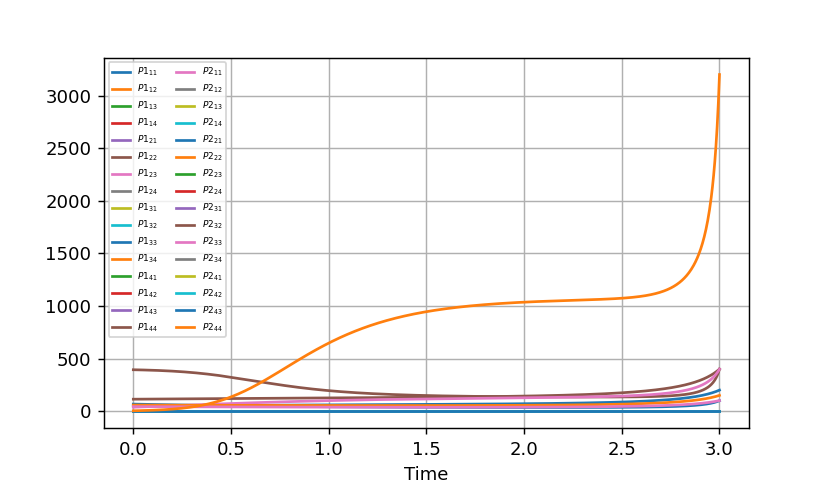
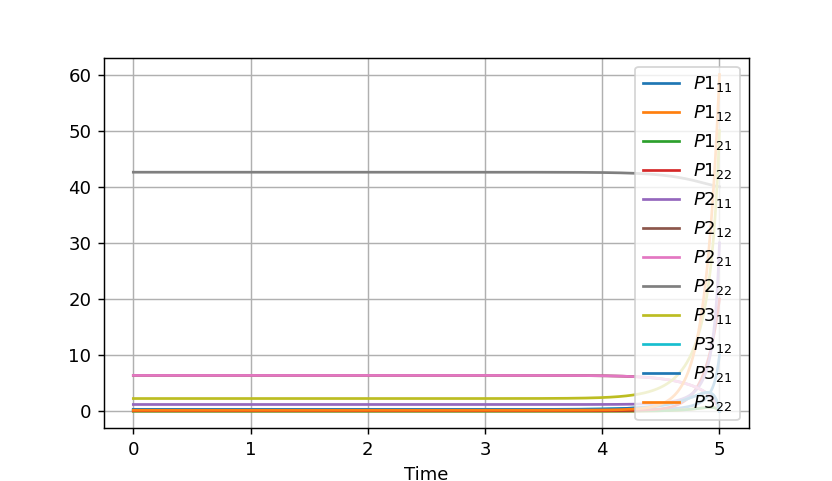
Refactored tutorial

diff --git a/PyDiffGame.py b/PyDiffGame.py
@@ -46,20 +46,21 @@ def check_input(m, A, B, Q, R, X0, T_f, P_f, data_points):
     N = len(B)
     P_size = M ** 2
 
-    if not all([isinstance(m_i, int) and m_i > 0 for m_i in m]):
-        raise ValueError('The state variables dimensions must all be positive integers')
-    if not A.shape == (M, M):
-        raise ValueError('The system matrix A must be of size MxM')
-    if not all([B_i.shape[0] == M for B_i in B]):
-        raise ValueError('The matrices B_i must all have M rows')
-    if not all([B_i.shape[1] == R_i.shape[0] == R_i.shape[1] for B_i, R_i in zip(B, R)]):
-        raise ValueError('The matrices B_i, R_i must have corresponding dimensions')
-    if not all([np.all(eigvals(Q_i) >= 0) for Q_i in Q]):
-        raise ValueError('The weight matrices Q_i must all be positive semi-definite')
-    if not all([np.all(eigvals(R_i) > 0) for R_i in R]):
-        raise ValueError('The weight matrices R_i must all be positive definite')
-    if not X0.shape == (M, ):
-        raise ValueError('The initial state vector should be of dimension M')
+    if not (isinstance(m, list) and all([isinstance(m_i, int) and m_i > 0 for m_i in m])):
+        raise ValueError('m must be a list of positive integers')
+    if not (isinstance(A, np.ndarray) and A.shape == (M, M)):
+        raise ValueError('A must be a square 2-d numpy array with shape MxM')
+    if not (isinstance(B, list) and all([isinstance(B_i, np.ndarray) and B_i.shape[0] == M for B_i in B])):
+        raise ValueError('B must be a list of 2-d numpy arrays with M rows')
+    if not (isinstance(B, list) and all([isinstance(R_i, np.ndarray) and B_i.shape[1] == R_i.shape[0] == R_i.shape[1]
+            and np.all(eigvals(R_i) > 0) for B_i, R_i in zip(B, R)])):
+        raise ValueError('R must be a list of square 2-d positive definite numpy arrays with shape '
+                         'corresponding to the second dimensions of the arrays in B')
+    if not (isinstance(Q, list) and all([isinstance(Q_i, np.ndarray) and Q_i.shape == (M, M)
+                                         and np.all(eigvals(Q_i) >= 0) for Q_i in Q])):
+        raise ValueError('Q must be a list of square 2-d positive semi-definite numpy arrays with shape MxM')
+    if not (isinstance(X0, np.ndarray) and X0.shape == (M, )):
+        raise ValueError('X0 must be a 1-d numpy array with length M')
 
     valid_T_f = isinstance(T_f, (float, int)) and T_f < 100
     valid_P_f = P_f is not None
@@ -106,12 +107,13 @@ def solve_N_coupled_riccati(_, P, M, N, A, B, Q, R, cl):
     return np.ravel(dPdt)
 
 
-def plot(m, s, mat, is_P):
+def plot(m, N, s, mat, is_P):
     M = sum(m)
-    V = range(1, len(m) + 1)
-    U = range(1, int(M) + 1)
+    V = range(1, N + 1)
+    U = range(1, M + 1)
 
-    legend = tuple(['${' + ('P' if is_P else 'X') + str(i) + '}_{' + str(j) + str(k) + '}$' for i in V for j in U for k in U])
+    legend = tuple(['${' + ('P' if is_P else 'X') + str(i) + '}_{' + str(j) + str(k) + '}$'
+                    for i in V for j in U for k in U])
 
     plt.figure(dpi=130)
     plt.plot(s, mat)
@@ -157,33 +159,43 @@ def solve_diff_game(m, A, B, Q, R, cl, X0, T_f=5, P_f=None, data_points=10000):
     else:
         P = odeint(func=solve_N_coupled_riccati, y0=P_f, t=t, args=(M, N, A, B, Q, R, cl), tfirst=True)
 
-    plot(m, t, P, True)
+    plot(m, N, t, P, True)
 
     forward_t = t[::-1]
     X = simulate_state_space(P, M, A, R, B, N, X0, forward_t)
-    plot(m, forward_t, X, False)
+    plot(m, N, forward_t, X, False)
 
 
 if __name__ == '__main__':
     # start = time.time()
-    m = [2, 2]
+    m = [2]
 
-    A = np.diag([2, 1, 1, 4])
-    B = [np.diag([2, 1, 1, 2]),
-         np.diag([1, 2, 2, 1])]
-    Q = [np.diag([2, 1, 2, 2]),
-         np.diag([1, 2, 3, 4])]
-    R = [np.diag([100, 200, 100, 200]),
-         np.diag([100, 300, 200, 400])]
-    coupled_R = [np.diag([100, 200, 100, 200]),
-                 np.diag([100, 300, 200, 400])]
+    A = np.array([[-2, 1],
+                  [1, 4]])
+    B = [np.array([[1, 0],
+                  [0, 1]]),
+         np.array([[0],
+                  [1]]),
+         np.array([[1],
+                  [0]])]
+    Q = [np.array([[1, 0],
+                  [0, 1]]),
+         np.array([[1, 0],
+                   [0, 10]]),
+         np.array([[10, 0],
+                   [0, 1]])
+         ]
+    R = [np.array([[100, 0],
+                  [0, 200]]),
+         np.array([[5]]),
+         np.array([[7]])]
 
     cl = True
-    T_f = 3
-    P_f = get_care_P_f(A, B, Q, R)
+    T_f = 5
+    P_f = np.array([10, 0, 0, 20, 30, 0, 0, 40, 50, 0, 0, 60])
     data_points = 1000
 
-    X0 = np.array([10, 20, 30, 100])
+    X0 = np.array([10, 20])
 
     solve_diff_game(m, A, B, Q, R, cl, X0, T_f, P_f, data_points)
     # end = time.time()

diff --git a/README.md b/README.md
@@ -19,21 +19,21 @@ The input parameters for `solve_diff_game` are:
 
 * `m` : list of positive ints, of len(<img src="https://render.githubusercontent.com/render/math?math=n">)
 >Lengths of controlled objects' state vectors
-* `A` : numpy array, of shape(<img src="https://render.githubusercontent.com/render/math?math=M,M">)
+* `A` : numpy 2-d array, of shape(<img src="https://render.githubusercontent.com/render/math?math=M,M">)
 >The system dynamics matrix
-* `B` : list of numpy arrays, of len(<img src="https://render.githubusercontent.com/render/math?math=N">), each matrix <img src="https://render.githubusercontent.com/render/math?math=B_j"> of shape(<img src="https://render.githubusercontent.com/render/math?math=M,k_j">)
+* `B` : list of <img src="https://render.githubusercontent.com/render/math?math=j"> numpy 2-d arrays, of len(<img src="https://render.githubusercontent.com/render/math?math=N">), each matrix <img src="https://render.githubusercontent.com/render/math?math=B_j"> of shape(<img src="https://render.githubusercontent.com/render/math?math=M,k_j">)
 >System input matrices for each control agenda
-* `Q` : list of numpy arrays, of len(<img src="https://render.githubusercontent.com/render/math?math=N">), each matrix <img src="https://render.githubusercontent.com/render/math?math=Q_j"> of shape(<img src="https://render.githubusercontent.com/render/math?math=M,M">)
+* `Q` : list of <img src="https://render.githubusercontent.com/render/math?math=j"> numpy 2-d arrays, of len(<img src="https://render.githubusercontent.com/render/math?math=N">), each matrix <img src="https://render.githubusercontent.com/render/math?math=Q_j"> of shape(<img src="https://render.githubusercontent.com/render/math?math=M,M">)
 >Cost function state weights for each control agenda
-* `R` : list of lists of numpy arrays, of len(<img src="https://render.githubusercontent.com/render/math?math=N">), each list of len(<img src="https://render.githubusercontent.com/render/math?math=N">), each matrix <img src="https://render.githubusercontent.com/render/math?math=R_{ij}"> of shape(<img src="https://render.githubusercontent.com/render/math?math=k_j,k_j">)
+* `R` : list of <img src="https://render.githubusercontent.com/render/math?math=j"> numpy 2-d arrays, of len(<img src="https://render.githubusercontent.com/render/math?math=N">), each matrix <img src="https://render.githubusercontent.com/render/math?math=R_{j}"> of shape(<img src="https://render.githubusercontent.com/render/math?math=k_j,k_j">)
 >Cost function input weights for each control agenda
 * `cl` : boolean
->Indicates whether to render the closed (True) or open (False) loop behaviour 
+>Indicates whether to render the closed (True) or open (False) loop behaviour
 * `T_f` : positive float <= 100, optional, default = 5
 >System dynamics horizon. Should be given in the case of finite horizon
-* `X_0` : numpy array, of shape(<img src="https://render.githubusercontent.com/render/math?math=M">)
+* `X_0` : numpy 2-d array, of shape(<img src="https://render.githubusercontent.com/render/math?math=M">)
 >Initial state vector
-* `P_f` : numpy array, of shape(<img src="https://render.githubusercontent.com/render/math?math=N \cdot M^2">), optional, default = solution of scipy's `solve_continuous_are`
+* `P_f` : numpy 2-d array, of shape(<img src="https://render.githubusercontent.com/render/math?math=N \cdot M^2">), optional, default = solution of scipy's `solve_continuous_are`
 >Final condition for the Riccati equation matrix. Should be given in the case of finite horizon
 * `data_points` : positive int <= 10000, optional, default = 10000
 >Number of data points to evaluate the Riccati equation matrix. Should be given in the case of finite horizon
@@ -43,22 +43,34 @@ The input parameters for `solve_diff_game` are:
 Let us consider the following input parameters:
 
 ```
-m = [2, 2]
+m = [2]
 
-A = np.diag([2, 1, 1, 4])
-B = [np.diag([2, 1, 1, 2]),
-     np.diag([1, 2, 2, 1])]
-Q = [np.diag([2, 1, 2, 2]),
-     np.diag([1, 2, 3, 4])]
-R = [np.diag([100, 200, 100, 200]),
-     np.diag([100, 300, 200, 400])]
+A = np.array([[-2, 1],
+              [1, 4]])
+B = [np.array([[1, 0],
+              [0, 1]]),
+     np.array([[0],
+              [1]]),
+     np.array([[1],
+              [0]])]
+Q = [np.array([[1, 0],
+              [0, 1]]),
+     np.array([[1, 0],
+               [0, 10]]),
+     np.array([[10, 0],
+               [0, 1]])
+     ]
+R = [np.array([[100, 0],
+              [0, 200]]),
+     np.array([[5]]),
+     np.array([[7]])]
 
 cl = True
-T_f = 3
-P_f = get_care_P_f(A, B, Q, R)
+T_f = 5
+P_f = np.array([10, 0, 0, 20, 30, 0, 0, 40, 50, 0, 0, 60])
 data_points = 1000
 
-X0 = np.array([10, 20, 30, 100])
+X0 = np.array([10, 20])
 ```
 
 Invoking the function `solve_diff_game` as such:
@@ -75,7 +87,4 @@ and the following state space simulation:
 <img src="https://github.com/krichelj/PyDiffGame/blob/master/images/tut1_state.png" width="640" alt="EKF pic">
 
 
-# References
-- **A Differential Game Approach to Formation Control**, Dongbing Gu, IEEE Transactions on Control Systems Technology, 2008
-- **Optimal Control - Third Edition**, Frank L. Lewis, Draguna L. Vrabie, Vassilis L. Syrmos, 2012 by John Wiley & Sons, 2012
-- **A Survey of Nonsymmetric Riccati Equations**, Gerhard Freiling, Linear Algebra and its Applications, 2002
+

diff --git a/Scenarios.md b/Scenarios.md
@@ -19,12 +19,3 @@ In such cases the following Riccati equation arise:
 
 <img src="https://render.githubusercontent.com/render/math?math=\frac{dP_i}{dt} = - A^T P_i - P_i A - Q_i %2B P_i \big(\sum_{j=1}^N S_j P_j\big)  %2B \big(\sum_{\substack{j=1 \\ j \neq i}}^NP_jS_j\big)  P_i \ , \ P_i(T_f) = P_{f_i} \ : \ \forall 1 \leq i \leq N">
 <img src="https://render.githubusercontent.com/render/math?math=S_j = B_j R_{jj}^{-1} B_j^T \ : \ \forall 1 \leq i \leq N">
-
-### Closed Loop Infinite Horizon
-
-In such cases the following Riccati equation arise:
-
-<img src="https://render.githubusercontent.com/render/math?math=0 = P_i A_c %2B A_c^T P_i %2B Q_i %2B \sum_{j=1}^N P_jB_j R_{jj}^{-T}R_{ij}R_{jj}^{-1}B_j^TP_j \ , \ P_i(T_f) = P_{f_i} \ : \ \forall 1 \leq i \leq N">
-<img src="https://render.githubusercontent.com/render/math?math=A_c = A - \sum_{i=1}^N S_iP_i \ , \ S_i = B_i R_{ii}^{-1}B_i^T">
-
-The package is still in working progress will include Open Loop Infinite Horizon in the future.

diff --git a/Math.md b/Math.md
@@ -51,3 +51,8 @@ where:
 <img src="https://render.githubusercontent.com/render/math?math=P_{f_i} \geq 0 \ : \ \forall 1 \leq i \leq N">
 
 Thus in the finite horizon case, the input includes <img src="https://render.githubusercontent.com/render/math?math=\{ m_i \}_{i=1}^N, A, \{ B_i \}_{i=1}^N, \{ Q_i \}_{i=1}^N, \{ \{ R_{ij} \}_{i=1}^N\}_{j=1}^N, T_f, x_0, \{ P_{f_i} \}_{i=1}^N, \psi"> and for the infinite horizon case - the same input holds but without the values for <img src="https://render.githubusercontent.com/render/math?math=P_{f}">.
+
+# References
+- **A Differential Game Approach to Formation Control**, Dongbing Gu, IEEE Transactions on Control Systems Technology, 2008
+- **Optimal Control - Third Edition**, Frank L. Lewis, Draguna L. Vrabie, Vassilis L. Syrmos, 2012 by John Wiley & Sons, 2012
+- **A Survey of Nonsymmetric Riccati Equations**, Gerhard Freiling, Linear Algebra and its Applications, 2002
